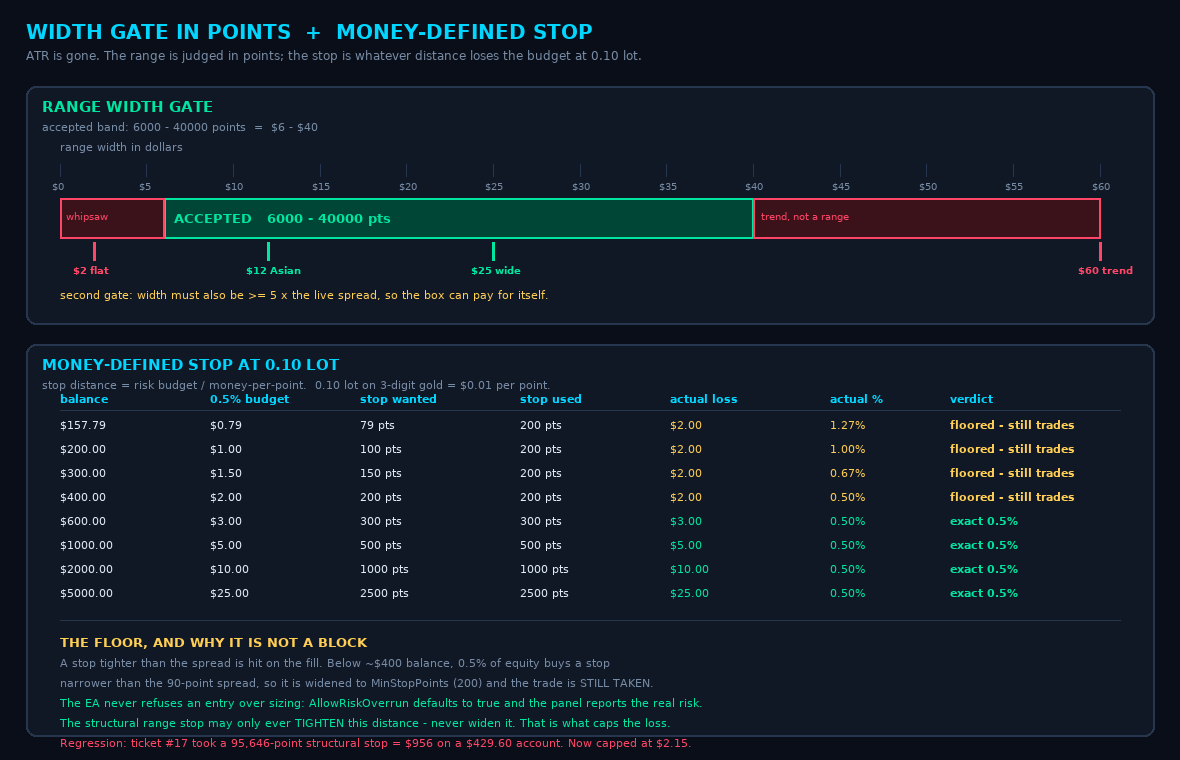
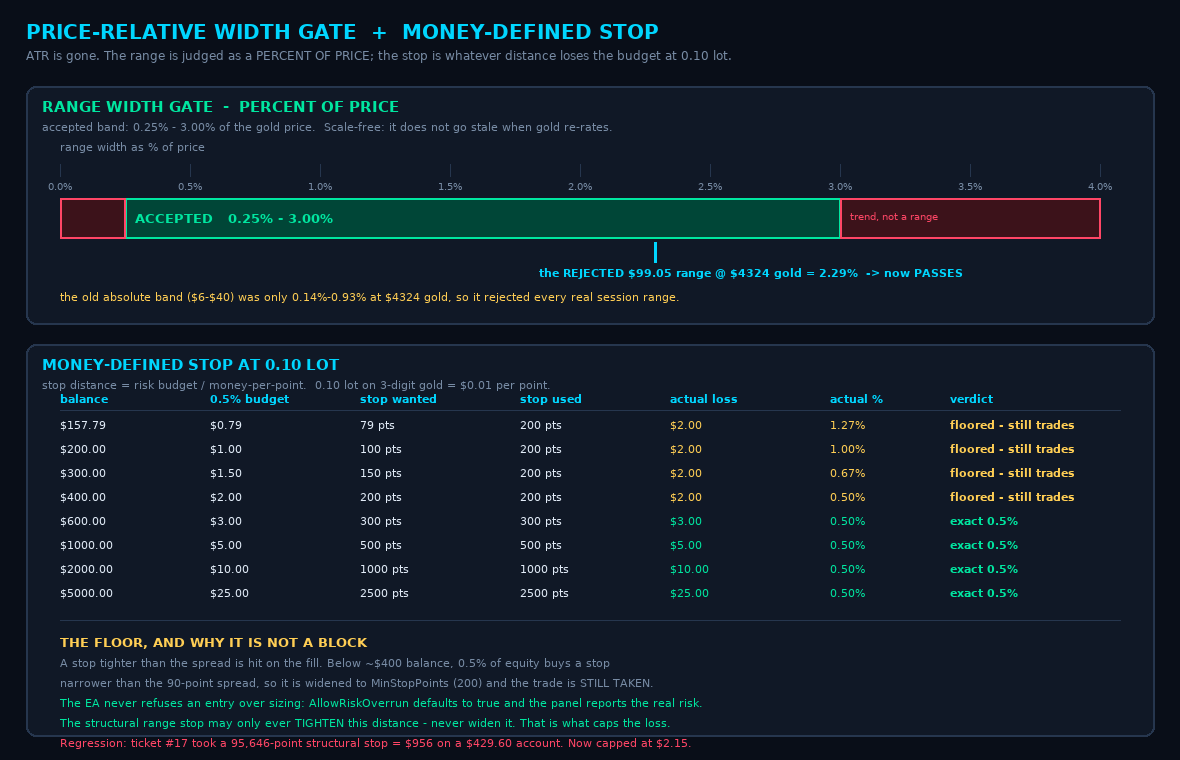
Fix the width gate that rejected every range: make it a percent of price
The user's log showed the EA never trading:
  range 4274.439-4373.493 | width 99054p | vs 6000-40000 pts -> REJECTED

Regression I introduced in v1.07. Removing ATR, I swapped a scale-free ratio
for an ABSOLUTE 6000-40000 point ($6-$40) band calibrated at $2000 gold. At
$4324 that band is 0.14%-0.93% of price, so a normal $99.05 (2.29%) session
range failed, gBkValid stayed false, and gates 1 and 5 never opened.

- Width gate is now MinRangePercent/MaxRangePercent (0.25%-3.00%), measured
  off the range midpoint rather than Bid so a spike cannot skew it.
- MinRangePoints/MaxRangePoints kept as an opt-in absolute backstop, 0 = off.
- TargetMode no longer defaults to BK_TP_MEASURED: on a $99 range that is a
  230:1 target versus a 430pt stop and is never hit. Default BK_TP_RANGE.
- Gate 1 rejection text said VOLATILITY after the gate became RANGE vs SPREAD.
- Journal now prints the width percent and the percent band.

verify_breakout replays the exact rejected range (2.29% -> PASS) and asserts
the gate is scale-free at $2000/$3000/$4324/$5000. render_width_gate redrawn.
Presets regenerated at 92 params. 17 verifiers pass; PRO untouched.

diff --git a/docs/verify_breakout.py b/docs/verify_breakout.py
@@ -77,21 +77,39 @@ check("buffer can be fixed points or a spread multiple",
       "BK_BUF_FIXED" in BK and "BufferSpreadMult" in BK)
 # ATR HAS BEEN REMOVED FROM THE EA. The width gate is now expressed in
 # POINTS, which is what the old ATR ratio only ever approximated.
-check("width gate is measured in points",
-      re.search(r'gBkValid = \(MinRangePoints <= 0 \|\| widthPts >= MinRangePoints\) &&', BK) is not None
-      and "(MaxRangePoints <= 0 || widthPts <= MaxRangePoints)" in BK)
+# THE WIDTH GATE MUST BE PRICE-RELATIVE. An absolute dollar band goes stale:
+# $6-$40 was sane at $2000 gold, but at $4324 a $40 ceiling is 0.93% of price
+# and rejected a real 99054-point ($99.05) session range in the user's log.
+check("width gate is a PERCENTAGE of price, not an absolute band",
+      re.search(r'gBkValid = \(MinRangePercent <= 0 \|\| gBkWidthPct >= MinRangePercent\) &&', BK) is not None
+      and "(MaxRangePercent <= 0 || gBkWidthPct <= MaxRangePercent)" in BK)
+check("width percent is computed off the range MIDPOINT, not Bid",
+      "double refPx = (hi + lo) / 2.0;" in BK and
+      "gBkWidthPct = (refPx > 0) ? (width / refPx) * 100.0 : 0.0;" in BK)
 check("BuildRange reports the bar count",
       "bool BuildRange(double &hi, double &lo, datetime &stamp, int &bars)" in BK)
-check("both width bounds are inputs",
-      re.search(r'^input\s+double\s+MinRangePoints', BK, re.M) is not None and
-      re.search(r'^input\s+double\s+MaxRangePoints', BK, re.M) is not None)
-_mn = float(re.search(r'MinRangePoints\s*=\s*([\d.]+)', BK).group(1))
-_mx = float(re.search(r'MaxRangePoints\s*=\s*([\d.]+)', BK).group(1))
-# 3-digit gold: 1000 points = 1.00 USD
-check(f"healthy $12 Asian range passes the {_mn:.0f}-{_mx:.0f} pt gate",
-      _mn <= 12000 <= _mx)
-check("a dead-flat $2 range is rejected", not (_mn <= 2000 <= _mx))
-check("a $60 trend is rejected",          not (_mn <= 60000 <= _mx))
+check("percent bounds are inputs",
+      re.search(r'^input\s+double\s+MinRangePercent', BK, re.M) is not None and
+      re.search(r'^input\s+double\s+MaxRangePercent', BK, re.M) is not None)
+check("the absolute points band still exists as an opt-in backstop",
+      re.search(r'^input\s+double\s+MinRangePoints\s*=\s*0\s*;', BK, re.M) is not None and
+      re.search(r'^input\s+double\s+MaxRangePoints\s*=\s*0\s*;', BK, re.M) is not None)
+_mn = float(re.search(r'MinRangePercent\s*=\s*([\d.]+)', BK).group(1))
+_mx = float(re.search(r'MaxRangePercent\s*=\s*([\d.]+)', BK).group(1))
+# THE REGRESSION FROM THE USER'S LOG, replayed exactly.
+_hi, _lo = 4373.493, 4274.439
+_pct = (_hi - _lo) / ((_hi + _lo) / 2.0) * 100.0
+check(f"the rejected $99.05 range at $4324 gold ({_pct:.2f}%) now PASSES {_mn}-{_mx}%",
+      _mn <= _pct <= _mx)
+# and the gate must still behave across price regimes
+for _px in (2000, 3000, 4324, 5000):
+    _lowW  = _px * (_mn / 100.0) * 0.5      # half the minimum -> reject
+    _goodW = _px * 0.02                      # 2% -> accept
+    _bigW  = _px * (_mx / 100.0) * 1.5      # 1.5x the max -> reject
+    ok = (not (_mn <= _lowW / _px * 100 <= _mx)) and \
+         (_mn <= _goodW / _px * 100 <= _mx) and \
+         (not (_mn <= _bigW / _px * 100 <= _mx))
+    check(f"gate behaves correctly at ${_px} gold (scale-free)", ok)
 check("range-vs-spread gate replaces the ATR expansion gate",
       "MinRangeSpreadMult" in BK and
       re.search(r'widthPts < MathMax\(0\.0, MinRangeSpreadMult\) \* spPts', BK) is not None)
@@ -170,7 +188,7 @@ n_sf = len([x for x in re.findall(r'^input\s+[\w ]+?\s+(\w+)\s*=', SF, re.M)
 print(f"   (Signal Forge {n_sf} inputs -> Breakout Forge {n_inputs})")
 for bi in ("RangeMode", "DonchianBars", "BufferMode", "BufferFixedPoints",
            "RequireBodyClose", "EntryMode", "RetestMaxBars", "UseVolatilityGate",
-           "MinRangePoints", "MaxBreakoutsPerRange", "StopByRangeOpposite",
+           "MinRangePercent", "MaxBreakoutsPerRange", "StopByRangeOpposite",
            "TargetMode", "MinTargetCostMult", "UseSessionFilter",
            "BlockRollover", "MaxTradesPerDay", "MaxDailyLossUSD"):
     check(f"breakout input {bi} present",
@@ -245,6 +263,12 @@ check("the only sizing-related return is behind AllowRiskOverrun",
       BK.count("if(overrun && !AllowRiskOverrun)") == 1)
 check("realised risk is journalled", "gLastRiskUSD" in BK)
 check("R-multiple target available", "TakeProfitRMultiple" in BK)
+# MEASURED sets TP to the whole range height: on a $99 gold range that is a
+# 230:1 target at a 430pt stop and is never reached. It must be opt-in.
+check("TargetMode does NOT default to MEASURED",
+      re.search(r'^input\s+ENUM_BK_TP\s+TargetMode\s*=\s*BK_TP_RANGE', BK, re.M) is not None)
+check("gate 1's reason string matches its name (not the old VOLATILITY)",
+      'else if(g == 1) why = T("RANGE vs SPREAD");' in BK)
 
 # ---- the arithmetic, replayed ----
 POINT = 0.001

diff --git a/docs/render_width_gate.py b/docs/render_width_gate.py
@@ -13,8 +13,8 @@ def f(sz,b=False):
 W,H=1180,760
 img=Image.new("RGB",(W,H),BG);d=ImageDraw.Draw(img)
 
-d.text((26,20),"WIDTH GATE IN POINTS  +  MONEY-DEFINED STOP",font=f(20,True),fill=CY)
-d.text((26,48),"ATR is gone. The range is judged in points; the stop is whatever distance loses the budget at 0.10 lot.",font=f(12),fill=DIM)
+d.text((26,20),"PRICE-RELATIVE WIDTH GATE  +  MONEY-DEFINED STOP",font=f(20,True),fill=CY)
+d.text((26,48),"ATR is gone. The range is judged as a PERCENT OF PRICE; the stop is whatever distance loses the budget at 0.10 lot.",font=f(12),fill=DIM)
 
 def block(x,y,w,h,title,col,sub):
     d.rounded_rectangle([x,y,x+w,y+h],10,fill=PANEL,outline=EDGE,width=2)
@@ -22,27 +22,28 @@ def block(x,y,w,h,title,col,sub):
     d.text((x+16,y+34),sub,font=f(11),fill=DIM)
 
 # ---------- width gate ----------
-MIN,MAX=6000,40000      # points; 1000 pts = $1.00 on 3-digit gold
-block(26,86,1128,238,"RANGE WIDTH GATE",BULL,"accepted band: %d - %d points  =  $%.0f - $%.0f"%(MIN,MAX,MIN/1000,MAX/1000))
+MINPCT,MAXPCT=0.25,3.00
+block(26,86,1128,238,"RANGE WIDTH GATE  -  PERCENT OF PRICE",BULL,
+      "accepted band: %.2f%% - %.2f%% of the gold price.  Scale-free: it does not go stale when gold re-rates."%(MINPCT,MAXPCT))
 x0,y0=60,164
-d.text((x0,y0-24),"range width in dollars",font=f(11),fill=DIM)
-scale=1040/60.0
-for dollars in range(0,61,5):
-    px=x0+dollars*scale
+d.text((x0,y0-24),"range width as % of price",font=f(11),fill=DIM)
+SPAN=4.0
+scale=1040/SPAN
+for t in [x*0.5 for x in range(0,9)]:
+    px=x0+t*scale
     d.line([px,y0,px,y0+12],fill=EDGE,width=1)
-    d.text((px-8,y0+16),"$%d"%dollars,font=f(10),fill=DIM)
-# accepted band
-d.rectangle([x0+(MIN/1000)*scale,y0+34,x0+(MAX/1000)*scale,y0+74],fill=(0,70,55),outline=BULL,width=2)
-d.text((x0+(MIN/1000)*scale+10,y0+46),"ACCEPTED   %d - %d pts"%(MIN,MAX),font=f(13,True),fill=BULL)
-d.rectangle([x0,y0+34,x0+(MIN/1000)*scale,y0+74],fill=(60,18,26),outline=BEAR,width=2)
-d.text((x0+6,y0+46),"whipsaw",font=f(10),fill=BEAR)
-d.rectangle([x0+(MAX/1000)*scale,y0+34,x0+60*scale,y0+74],fill=(60,18,26),outline=BEAR,width=2)
-d.text((x0+(MAX/1000)*scale+8,y0+46),"trend, not a range",font=f(10),fill=BEAR)
-for lbl,dollars,ok in (("$2 flat",2,False),("$12 Asian",12,True),("$25 wide",25,True),("$60 trend",60,False)):
-    px=x0+dollars*scale
-    d.line([px,y0+78,px,y0+96],fill=BULL if ok else BEAR,width=3)
-    d.text((px-22,y0+100),lbl,font=f(10,True),fill=BULL if ok else BEAR)
-d.text((x0,y0+124),"second gate: width must also be >= 5 x the live spread, so the box can pay for itself.",font=f(11),fill=AMB)
+    d.text((px-12,y0+16),"%.1f%%"%t,font=f(10),fill=DIM)
+d.rectangle([x0+MINPCT*scale,y0+34,x0+MAXPCT*scale,y0+74],fill=(0,70,55),outline=BULL,width=2)
+d.text((x0+MINPCT*scale+10,y0+46),"ACCEPTED   %.2f%% - %.2f%%"%(MINPCT,MAXPCT),font=f(13,True),fill=BULL)
+d.rectangle([x0,y0+34,x0+MINPCT*scale,y0+74],fill=(60,18,26),outline=BEAR,width=2)
+d.rectangle([x0+MAXPCT*scale,y0+34,x0+SPAN*scale,y0+74],fill=(60,18,26),outline=BEAR,width=2)
+d.text((x0+MAXPCT*scale+10,y0+46),"trend, not a range",font=f(10),fill=BEAR)
+# the user's real range
+obs=2.29
+px=x0+obs*scale
+d.line([px,y0+78,px,y0+98],fill=CY,width=3)
+d.text((px-116,y0+102),"the REJECTED $99.05 range @ $4324 gold = 2.29%  -> now PASSES",font=f(11,True),fill=CY)
+d.text((x0,y0+126),"the old absolute band ($6-$40) was only 0.14%-0.93% at $4324 gold, so it rejected every real session range.",font=f(11),fill=AMB)
 
 # ---------- money stop ----------
 block(26,344,1128,392,"MONEY-DEFINED STOP AT 0.10 LOT",CY,"stop distance = risk budget / money-per-point.  0.10 lot on 3-digit gold = $0.01 per point.")

diff --git a/README.md b/README.md
@@ -1351,7 +1351,7 @@ corrected.
 
 ---
 
-# Breakout Forge XAUUSD M5 EA (v1.07) — the second EA
+# Breakout Forge XAUUSD M5 EA (v1.08) — the second EA
 
 A **separate EA with its own strategy**, not a variant of Signal Forge. Exactly
 two things are reused from PRO — the **visual shell** (HUD, themes, Arabic
@@ -1421,6 +1421,48 @@ The middle column is the whole point of the design.
 * **RETEST** — wait for price to come back to the broken level and hold.
   Fewer trades, better fills, tighter stops. Times out after `RetestMaxBars`,
   and a close back through the level kills the setup rather than arming it.
+
+## v1.08 — the width gate is a PERCENT OF PRICE (it was rejecting everything)
+
+From the user's journal:
+
+```
+range 4274.439-4373.493 | 84 bars | width 99054p | ratio 16.51
+        vs 6000-40000 pts -> REJECTED
+```
+
+**My bug, introduced in v1.07.** Removing ATR, I replaced a *scale-free* ratio
+with an *absolute* dollar band of $6–$40. That was calibrated for $2,000 gold.
+At **$4,324** the same band is only **0.14%–0.93%** of price, so a perfectly
+normal **$99.05** session range (2.29% of price) was thrown out — and with the
+range invalid, gates 1 and 5 never opened and **the EA could not trade at all**.
+
+The gate is now expressed as a percentage of the gold price, measured off the
+range **midpoint** (stable while the range is judged; a Bid spike cannot skew
+it):
+
+| input | default | meaning |
+|---|---|---|
+| `MinRangePercent` | 0.25 | min width as % of price |
+| `MaxRangePercent` | 3.00 | max width as % of price |
+| `MinRangePoints` / `MaxRangePoints` | 0 / 0 | optional absolute backstop, off by default |
+
+At $4,324 that accepts **$10.81 – $129.72**; at $2,000 it accepts $5 – $60. The
+band moves with the market instead of going stale. The user's rejected range now
+scores **2.29%** and passes; `verify_breakout.py` replays those exact figures and
+also checks the gate at $2,000 / $3,000 / $4,324 / $5,000.
+
+**Two more blockers fixed in the same pass:**
+
+* `TargetMode` no longer defaults to `BK_TP_MEASURED`. Measured-move sets TP to
+  the whole range height — on a $99 range against a 430-point stop that is a
+  **230:1** target that is never reached, so every trade would have exited on the
+  stop or the trailing stop. Default is now `BK_TP_RANGE` (`TakeProfitPoints`
+  5000 = $5.00, ≈11:1), with MEASURED available opt-in.
+* Gate 1's rejection message still read `VOLATILITY` after the gate became
+  `RANGE vs SPREAD`, so the panel named a gate that no longer existed.
+
+---
 
 ## v1.07 — 0.10 lot, a money-defined stop, and no ATR anywhere
 
